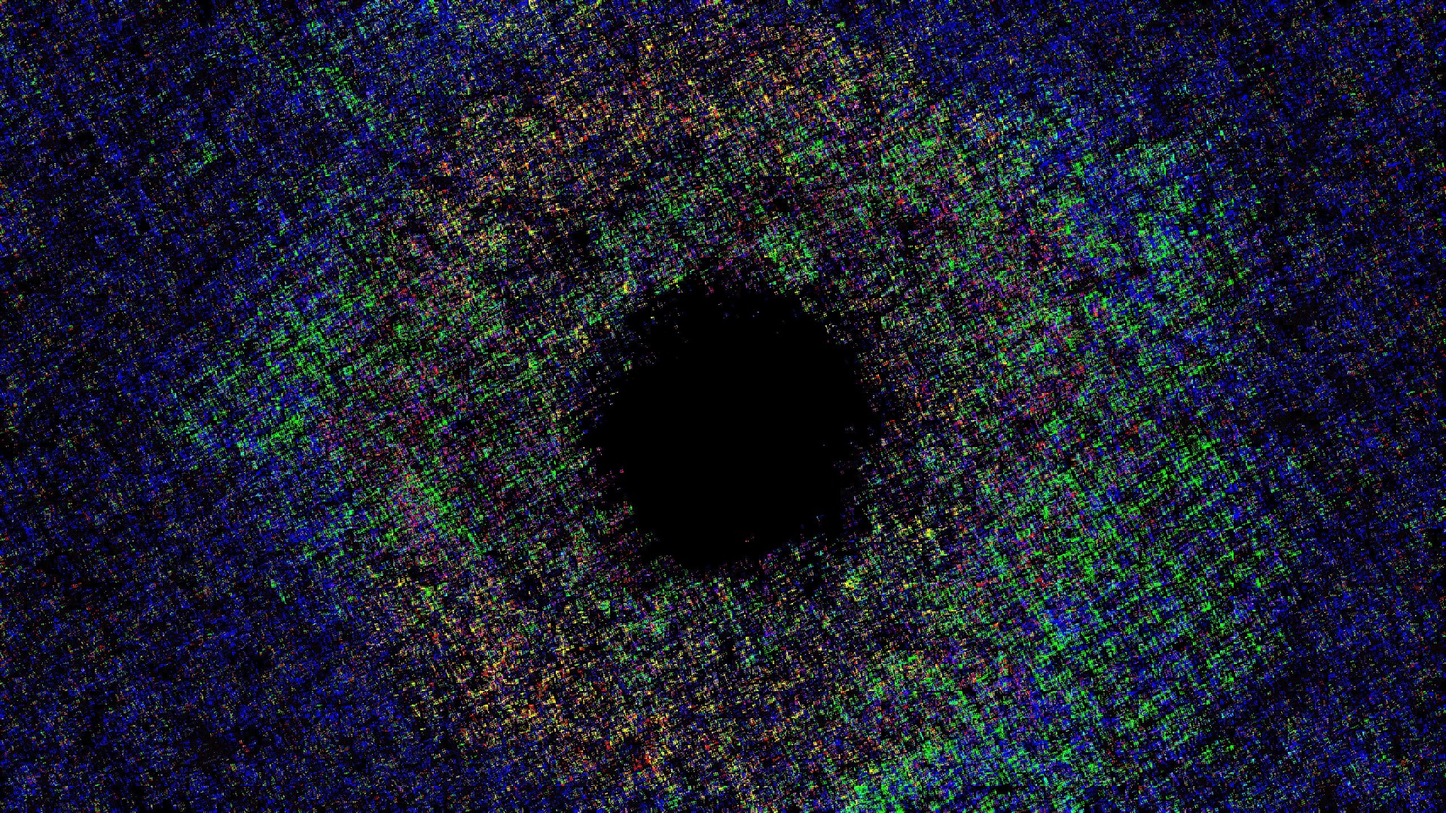
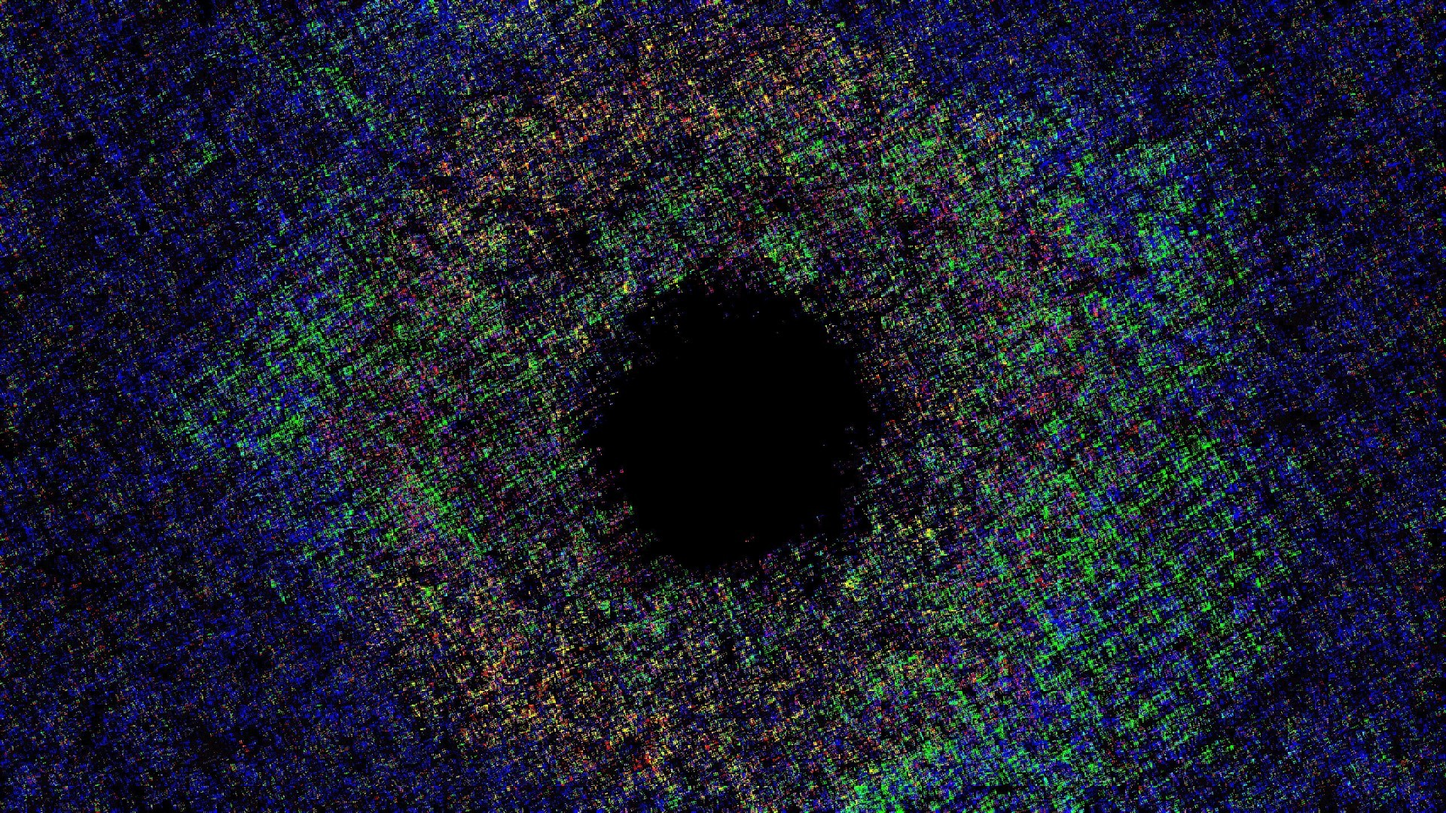
CDN works with development, still gotta port rest of image stuff over to new system

diff --git a/imports/components/users/show.jsx b/imports/components/users/show.jsx
@@ -18,7 +18,7 @@ import ImageForm from "/imports/components/public/img_form.jsx";
 import UserSections from "./show/sections.jsx";
 import Loading from "/imports/components/public/loading.jsx";
 
-export default class ShowUserScreen extends Component {
+export default class ShowUserScreen extends TrackerReact(Component) {
 
   componentWillMount() {
     self = this;
@@ -49,8 +49,8 @@ export default class ShowUserScreen extends Component {
 
   profileImage() {
     var user = Meteor.user();
-    if(user.profile.image) {
-      return ProfileImages.findOne(user.profile.image).link();
+    if(user.profile.imageUrl) {
+      return user.profile.imageUrl;
     }
     return "/images/profile.png";
   }
@@ -58,20 +58,7 @@ export default class ShowUserScreen extends Component {
   updateProfileImage(e) {
     e.preventDefault();
     this.refs.img.value();
-  }
-
-  onImageUploaded(data) {
-    Meteor.call("users.update_profile_image", data._id, (err) => {
-      if(err) {
-        toastr.error(err.reason, "Error!");
-      }
-      else {
-        this.setState({
-          open: false
-        })
-        toastr.success("Updated profile image.", "Success!");
-      }
-    })
+    this.setState({open: false});
   }
 
   render() {
@@ -93,7 +80,6 @@ export default class ShowUserScreen extends Component {
               {
                 Meteor.user().profile.games.slice(0, 3).map((game, i) => {
                   var g = Games.findOne(game);
-                  console.log(g);
                   return (
                     <div className="user-game-icon" style={{backgroundImage: `url(${GameBanners.findOne(g.banner).link()})`}} key={i}>
 
@@ -109,7 +95,7 @@ export default class ShowUserScreen extends Component {
               </div>
               <Modal isOpen={this.state.open} onRequestClose={() => { this.setState({ open: false }) }}>
                 <div className="col center x-center" style={{width: "100%", height: "100%"}}>
-                  <ImageForm ref="img" collection={ProfileImages} callback={this.onImageUploaded.bind(this)} />
+                  <ImageForm ref="img" collection={ProfileImages} meta={{userId: Meteor.userId()}} />
                   <button onClick={this.updateProfileImage.bind(this)}>Submit</button>
                 </div>
               </Modal>

diff --git a/imports/components/public/img_form.jsx b/imports/components/public/img_form.jsx
@@ -6,15 +6,13 @@ export default class ImageForm extends Component {
   componentWillMount() {
     this.setState({
       id: this.props.id,
-      uploader: null
+      uploader: null,
+      file: null
     });
   }
 
   value(getBase64) {
     if(!this.state.url && !this.props.defaultImage){
-      if(this.props.callback){
-        this.props.callback({_id: this.props.id});
-      }
       return this.props.id;
     }
     var imageData = this.refs.cropper.getImageData();
@@ -27,6 +25,12 @@ export default class ImageForm extends Component {
     boxData.height *= heightRatio;
     boxData.left = (boxData.left - widthOffset) * widthRatio;
     boxData.top = (boxData.top - heightOffset) * heightRatio;
+
+    if(this.props.meta) {
+      Object.keys(this.props.meta).forEach(key => {
+        boxData[key] = this.props.meta[key];
+      })
+    }
 
     if(getBase64){
       return {
@@ -41,6 +45,15 @@ export default class ImageForm extends Component {
     else if(this.state.type == "image/png") {
       type = ".png";
     }
+    // var uploader = new Slingshot.Upload("event-banners");
+    // uploader.send(this.state.file, (err, downloadUrl) => {
+    //   if(err) {
+    //     console.log(err);
+    //   }
+    //   else {
+    //     console.log(downloadUrl);
+    //   }
+    // });
     this.props.collection.insert({
       file: (this.state.url || this.props.defaultImage),
       isBase64: true,
@@ -53,9 +66,6 @@ export default class ImageForm extends Component {
         if(err){
           toastr.error(err.reason);
         }
-        if(!err && this.props.callback){
-          this.props.callback(data);
-        }
       }
     });
   }
@@ -64,7 +74,8 @@ export default class ImageForm extends Component {
     e.preventDefault();
     var self = this;
     var reader = new FileReader();
-    var type = e.target.files[0].type;
+    var file = e.target.files[0];
+    var type = file.type;
     if(this.props.onSelect){
       this.props.onSelect();
     }
@@ -74,10 +85,11 @@ export default class ImageForm extends Component {
       }
       self.setState({
         url: reader.result,
+        file,
         type
       });
     }
-    reader.readAsDataURL(e.target.files[0]);
+    reader.readAsDataURL(file);
   }
 
   componentWillReceiveProps(next) {

diff --git a/imports/api/event/banners.js b/imports/api/event/banners.js
@@ -19,8 +19,8 @@ if(Meteor.isServer) {
   bucket = gcs.bucket(bucketName);
 }
 
-var ProfileImages = new FilesCollection({
-  collectionName: "profileImages",
+var EventBanners = new FilesCollection({
+  collectionName: "eventBanners",
   allowClientCode: false,
   onBeforeUpload: function(file) {
     if(file.size <= 10485760 && /png|jpg|jpeg/i.test(file.extension)) {
@@ -58,11 +58,11 @@ var ProfileImages = new FilesCollection({
         console.log(err);
       }
       else {
-        Meteor.users.update({
-          _id: fileRef.meta.userId
+        Events.update({
+          _id: fileRef.meta.eventId
         }, {
           $set: {
-            "profile.imageUrl": (Meteor.isDevelopment ? "https://brachyontest-604a.kxcdn.com/" : "") + "profileImages/" + fileRef.meta.userId + ext
+            "profile.imageUrl": (Meteor.isDevelopment ? "https://brachyontest-604a.kxcdn.com/" : "") + "eventBanners/" + fileRef.meta.eventId + ext
           }
         });
         self.remove({_id: fileRef._id});
@@ -75,7 +75,7 @@ var ProfileImages = new FilesCollection({
       file.on("finish", Meteor.bindEnvironment(function() {
         file.close();
         bucket.upload(fileRef.path, {
-          destination: "profileImages/" + fileRef.meta.userId + ext,
+          destination: "eventBanners/" + fileRef.meta.userId + ext,
           public: true
         }, Meteor.bindEnvironment(gcUploadCB));
       }))

diff --git a/server/publications.js b/server/publications.js
@@ -1,9 +1,5 @@
 import Games from '/imports/api/games/games.js';
-import { ProfileImages } from "/imports/api/users/profile_images.js";
-import { ProfileBanners } from "/imports/api/users/profile_banners.js";
-import { Images } from "/imports/api/event/images.js";
 import Instances from "/imports/api/event/instance.js";
-import { GameBanners } from "/imports/api/games/game_banner.js";
 
 Meteor.publish("event_participants", (slug) => {
   var event = Events.findOne({slug: slug});
@@ -87,33 +83,17 @@ Meteor.publish('userEvents', (id) => {
   var user = Meteor.users.findOne(id);
   var events = Events.find({owner: id});
   var gameSet = new Set();
-  var imgIds = [];
-  events.forEach((e) => {
-    if(e.details.banner != null){
-      imgIds.push(e.details.banner);
-    }
-  });
   var games = Games.find({
     _id: {
       $in: Array.from(gameSet)
     }
   });
-  games.forEach((game) => {
-    imgIds.push(game.banner);
-  })
-  var images = Images.find({
-    _id: {
-      $in: imgIds
-    }
-  })
   var instances = events.map((event) => {
     return event.instances[event.instances.length - 1];
   })
   return [
     Events.find({owner: id}, { limit: 6 }),
     games,
-    ProfileImages.find({_id: user.profile.image}).cursor,
-    images.cursor,
     Instances.find({ _id: { $in: instances } })
   ];
 })

diff --git a/server/publications/users/user.js b/server/publications/users/user.js
@@ -1,7 +1,4 @@
 import Games from "/imports/api/games/games.js";
-import { Images } from "/imports/api/event/images.js";
-import { ProfileImages } from "/imports/api/users/profile_images.js";
-import { ProfileBanners } from "/imports/api/users/profile_banners.js";
 import { GameBanners } from "/imports/api/games/game_banner.js";
 import Notifications from "/imports/api/users/notifications.js";
 
@@ -11,21 +8,12 @@ Meteor.publish("user", (_id) => {
     return Meteor.users.find({_id});
   }
   var games = Games.find({_id: {$in: user.profile.games || []}});
-  var imgs = ProfileImages.find({_id: user.profile.image});
-  var gameBanners = GameBanners.find({
-    _id: {
-      $in: games.map((g) => { return g.banner })
-    }
-  });
   var eventIDs = [];
   var userIDs = [];
   userIDs.push(_id);
   return [
     Meteor.users.find({_id}),
-    ProfileBanners.find({_id: user.profile.banner}).cursor,
-    imgs.cursor,
     games,
-    gameBanners.cursor
   ];
 })
 

diff --git a/server/slingshot_directives/event_banners.js b/server/slingshot_directives/event_banners.js
@@ -1,0 +1,21 @@
+Slingshot.GoogleCloud.directiveDefault.GoogleSecretKey = Assets.getText('brachyon-gc.pem');
+
+Slingshot.fileRestrictions("event-banners", {
+  allowedFileTypes: ["image/png", "image/jpeg", "image/gif"],
+  maxSize: 10 * 1024 * 1024 // 10 MB (use null for unlimited).
+});
+
+Slingshot.createDirective("event-banners", Slingshot.GoogleCloud, {
+  bucket: Meteor.isDevelopment ? "brachyon-test" : "brachyon-prod",
+  GoogleAccessId: Meteor.settings.googleCloud.accessId,
+  authorize: function() {
+    if(!this.userId) {
+      throw new Meteor.Error("Login Required", "You need to log in first.");
+    }
+    return true;
+  },
+  key: function(file) {
+    var ext = file.name.substring(file.name.lastIndexOf("."), file.name.length);
+    return `profile_images/${this.userId}${ext}`;
+  }
+})

diff --git a/imports/components/events/create/details.jsx b/imports/components/events/create/details.jsx
@@ -140,7 +140,7 @@ export default class DetailsPanel extends Component {
         <div style={this.blockStyle("Banner")}>
           <h5>Event Image (Optional)</h5>
           <div className="row center">
-          <ImageForm ref="image" collection={Images} callback={() => {}} aspectRatio={16/9} onImgSelected={this.setImage.bind(this)} defaultImage={this.state.image} />
+          <ImageForm ref="image" collection={Images} aspectRatio={16/9} onImgSelected={this.setImage.bind(this)} defaultImage={this.state.image} />
           </div>
         </div>
       </div>

diff --git a/imports/components/public/header.jsx b/imports/components/public/header.jsx
@@ -39,8 +39,8 @@ export default class Header extends TrackerReact(Component) {
 
   imgOrDefault() {
     var user = Meteor.user();
-    if(user.profile.image != null) {
-      return ProfileImages.findOne(user.profile.image).link();
+    if(user.profile.imageUrl) {
+      return user.profile.imageUrl;
     }
     return "/images/profile.png";
   }

diff --git a/server/main.js b/server/main.js
@@ -76,6 +76,9 @@ ServiceConfiguration.configurations.upsert(
 );
 
 Meteor.startup(() => {
+
+  
+
   Logger.info('Meteor started!');
 
   SyncedCron.add({
